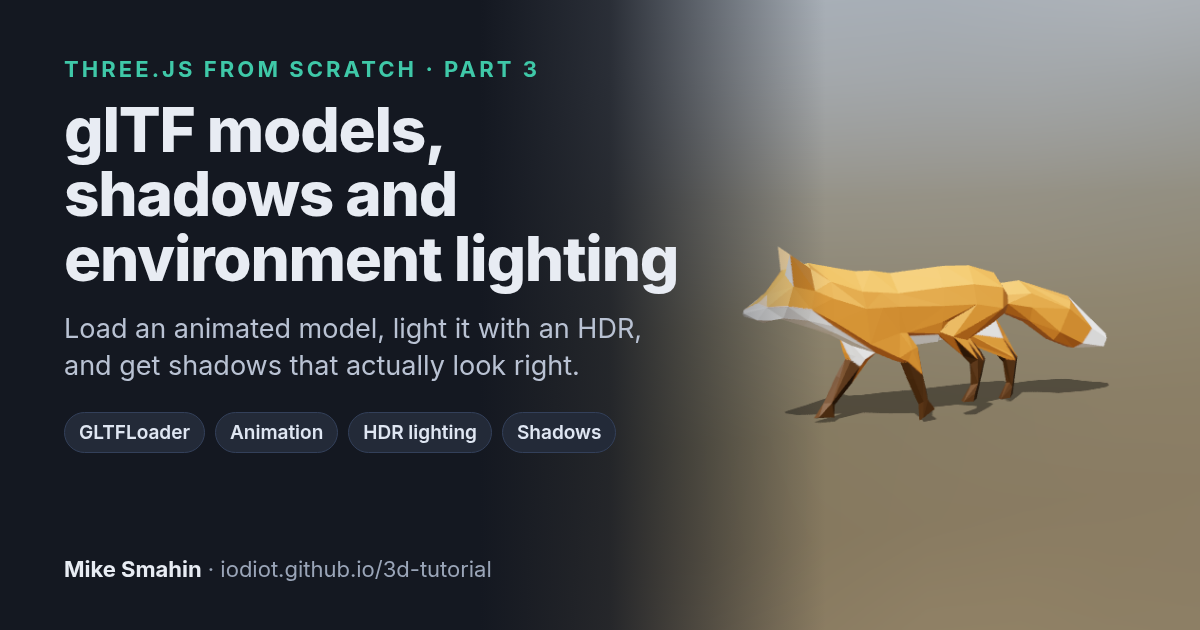
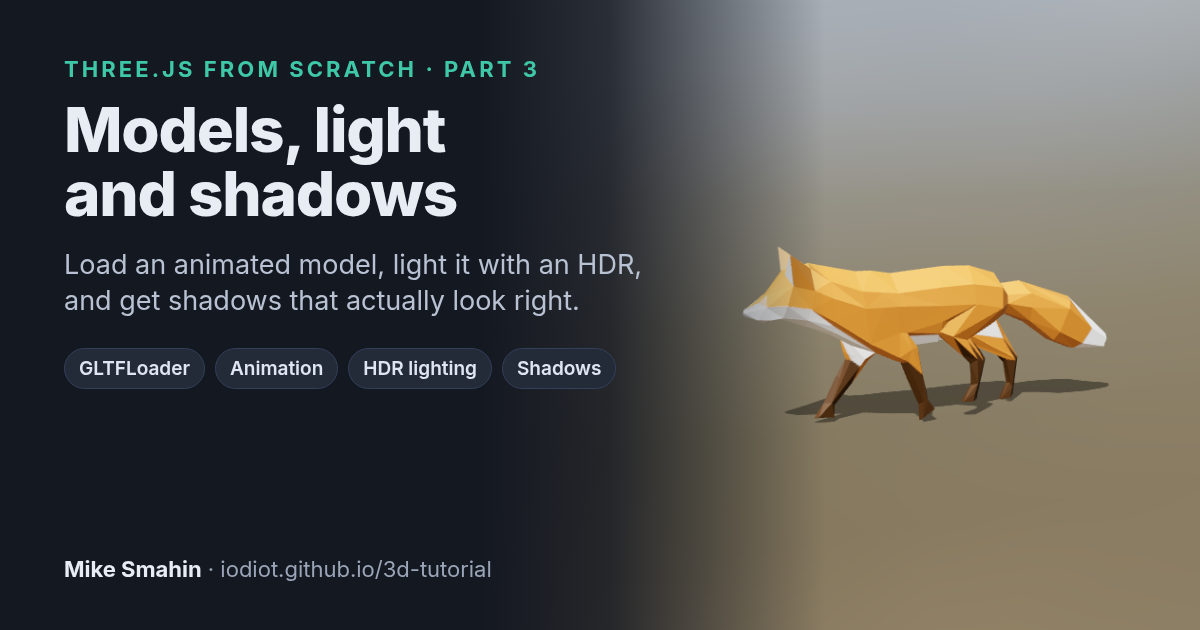
Part 3: shorter title (Models, Light and Shadows)

Changed region(s): [[0.0308, 0.1508, 0.5858, 0.6032], [0.0617, 0.6635, 0.4008, 0.7238], [0.4317, 0.6635, 0.5242, 0.7238]]

diff --git a/demos/part-3/index.html b/demos/part-3/index.html
@@ -3,7 +3,7 @@
 <head>
   <meta charset="utf-8">
   <meta name="viewport" content="width=device-width, initial-scale=1">
-  <title>Loading glTF models, shadows and environment lighting · final demo</title>
+  <title>Models, light and shadows · final demo</title>
   <style>
     html, body { margin: 0; height: 100%; background: #000; }
     canvas { display: block; }

diff --git a/README.md b/README.md
@@ -8,7 +8,7 @@ A step-by-step tutorial series on 3D for the web with Three.js, WebGL and WebGPU
 |---|---|---|
 | 1 | [Your First Scene](https://iodiot.github.io/3d-tutorial/part-1-first-scene/): scene, camera, renderer, lights, animation loop, resizing, OrbitControls | [live](https://iodiot.github.io/3d-tutorial/demos/part-1/) · [code](demos/part-1/) |
 | 2 | [Geometry, Materials and Textures](https://iodiot.github.io/3d-tutorial/part-2-geometry-materials-textures/): BufferGeometry, normals, the built-in materials, roughness and metalness, UVs, colour spaces, wrapping, normal and roughness maps | [live](https://iodiot.github.io/3d-tutorial/demos/part-2/) · [code](demos/part-2/) |
-| 3 | [Loading glTF Models, Shadows and Environment Lighting](https://iodiot.github.io/3d-tutorial/part-3-models-shadows-environment/): GLTFLoader and loadAsync, Draco/KTX2/meshopt, traversing the scene graph, fitting with Box3, AnimationMixer and Timer, RoomEnvironment, HDR environments, tone mapping and exposure, shadow maps, fitting the shadow camera, bias and normalBias, ShadowMaterial | [live](https://iodiot.github.io/3d-tutorial/demos/part-3/) · [code](demos/part-3/) |
+| 3 | [Models, Light and Shadows](https://iodiot.github.io/3d-tutorial/part-3-models-shadows-environment/): GLTFLoader and loadAsync, Draco/KTX2/meshopt, traversing the scene graph, fitting with Box3, AnimationMixer and Timer, RoomEnvironment, HDR environments, tone mapping and exposure, shadow maps, fitting the shadow camera, bias and normalBias, ShadowMaterial | [live](https://iodiot.github.io/3d-tutorial/demos/part-3/) · [code](demos/part-3/) |
 | 4 | Shaders: ShaderMaterial and GLSL basics | coming next |
 | 5 | WebGPU: WebGPURenderer and TSL | planned |
 

diff --git a/posts/part-3-models-shadows-environment.md b/posts/part-3-models-shadows-environment.md
@@ -1,8 +1,8 @@
 ---
-title: "Three.js from Scratch, Part 3: Loading glTF Models, Shadows and Environment Lighting"
+title: "Three.js from Scratch, Part 3: Models, Light and Shadows"
 date: 2026-10-25
 part: 3
-short: glTF Models, Shadows and Environment Lighting
+short: Models, Light and Shadows
 slug: part-3-models-shadows-environment
 demo: demos/part-3/
 tags: [three.js, gltf, shadows, lighting]
@@ -608,7 +608,7 @@ Here is the final demo in one file. Next to it you need two folders from the rep
 <head>
   <meta charset="utf-8">
   <meta name="viewport" content="width=device-width, initial-scale=1">
-  <title>Loading glTF models, shadows and environment lighting · final demo</title>
+  <title>Models, light and shadows · final demo</title>
   <style>
     html, body { margin: 0; height: 100%; background: #000; }
     canvas { display: block; }

diff --git a/posts/part-1-first-scene.md b/posts/part-1-first-scene.md
@@ -26,7 +26,7 @@ Roughly, the plan is:
 
 1. **Your first scene** (this article): scene, camera, renderer, lights, the render loop.
 2. [Geometry, materials and textures](/3d-tutorial/part-2-geometry-materials-textures/): what a mesh is made of and how surfaces react to light.
-3. [Loading glTF models, shadows and environment lighting](/3d-tutorial/part-3-models-shadows-environment/): real models, animation, HDR light and shadows.
+3. [Models, light and shadows](/3d-tutorial/part-3-models-shadows-environment/): real models, animation, HDR light and shadows.
 4. Shaders: `ShaderMaterial`, GLSL basics, and what the GPU is actually doing.
 5. WebGPU: Three.js's `WebGPURenderer`, the TSL shading language and compute.
 
